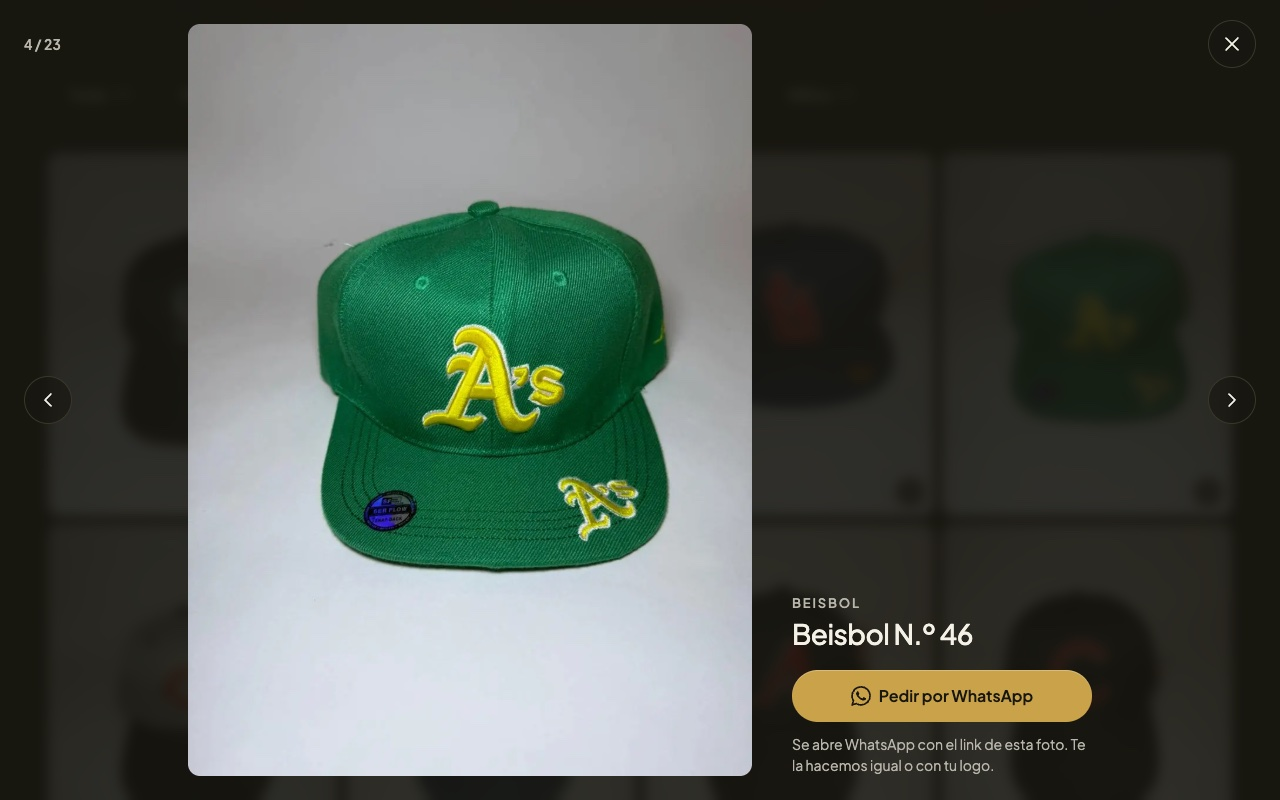
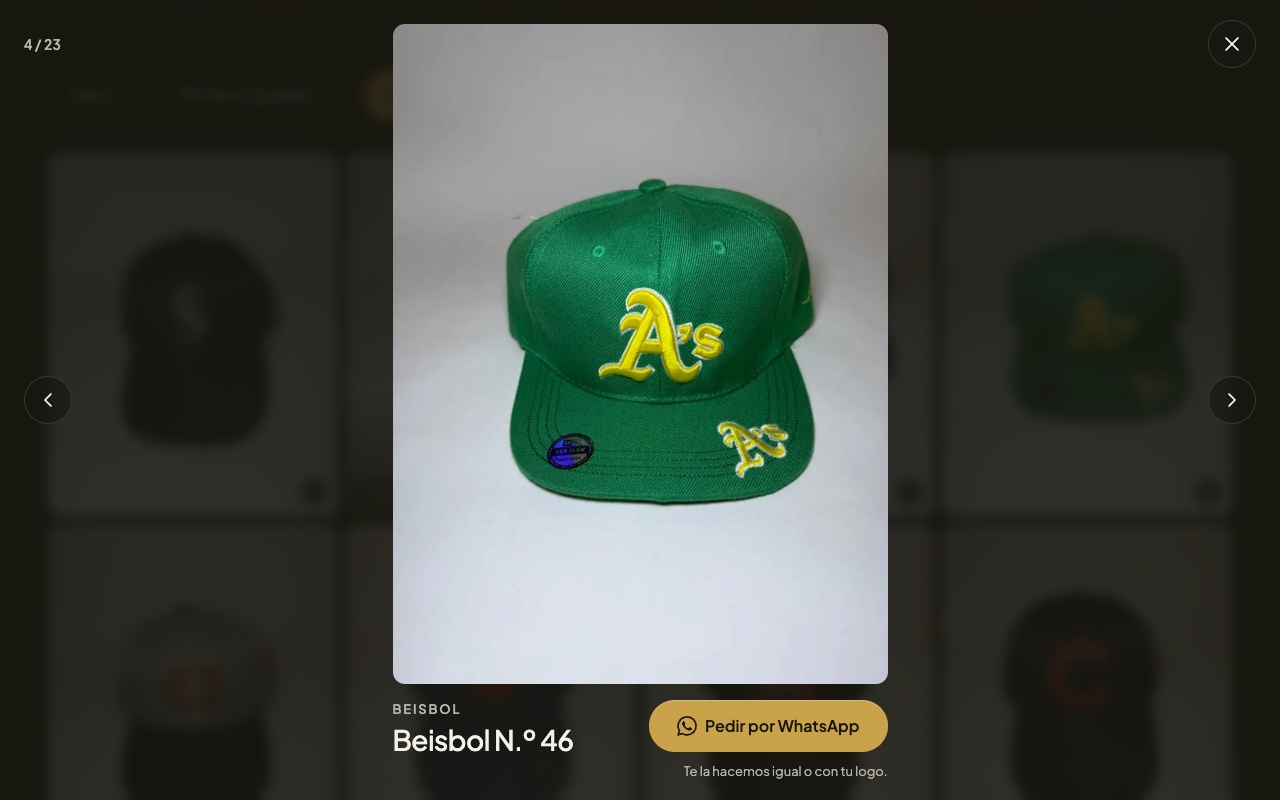
docs: PRI-286 modal at 1280 puts the info under the photo: centered photo and a one-row strip of the same width (category and name left, Pedir por WhatsApp with a one-line note right), equal air top and bottom in 800 px; long names truncate, wide photos stop before the arrows

diff --git a/tempo/designs/canvases/portada-final/Modal.tsx b/tempo/designs/canvases/portada-final/Modal.tsx
@@ -11,8 +11,10 @@ import { Catalogo, CATEGORIAS } from "./Pantallas";
  * PRI-286 · el visor pasa a ser un modal encima del muro (Said, 2026-11-02). Serflow no es una tienda: el catálogo es un
  * portafolio del taller y se pide por WhatsApp. Patrón: el modal de foto de Unsplash y el pin de Pinterest, sin nada de
  * tienda (ni precio, ni carrito, ni "Más de" al lado).
- * Escritorio: la foto entera (contain) a todo el alto que deja el margen; la franja al lado, pegada al borde de abajo de
- * la foto (así la foto usa todo el alto); flechas a los lados y la X arriba a la derecha.
+ * Escritorio: la foto entera (contain) centrada y, debajo, una franja de una sola fila del mismo ancho: categoría y nombre a
+ * la izquierda, Pedir por WhatsApp con su nota a la derecha. La foto se achica lo justo para que las dos quepan en el alto
+ * con el mismo aire arriba y abajo; flechas a los lados, contador arriba a la izquierda y la X arriba a la derecha.
+ * La nota en escritorio es corta para caber en una línea debajo del botón; en el celular va completa.
  * Celular: pantalla completa; arriba el contador y la X, la foto en el medio con las orillas de la anterior y la
  * siguiente (la pista de que se desliza) y la franja con el botón fija abajo.
  * Todo el texto es real: categoría, fotoTitulo, "Pedir por WhatsApp" con pedirUrl y su nota de master. description: hoy
@@ -47,7 +49,7 @@ function Franja({ desktop }: { desktop: boolean }) {
         <Button variant="whatsapp" href={pedirUrl(cat.label, n, foto.href)} external fullWidth={!desktop}>
           Pedir por WhatsApp
         </Button>
-        <p className="mx-nota">Se abre WhatsApp con el link de esta foto. Te la hacemos igual o con tu logo.</p>
+        <p className="mx-nota">{desktop ? "Te la hacemos igual o con tu logo." : "Se abre WhatsApp con el link de esta foto. Te la hacemos igual o con tu logo."}</p>
       </div>
     </div>
   );
@@ -80,9 +82,11 @@ export function Modal({ width }: { width: W }) {
                 <Chevron d="M15 18l-6-6 6-6" />
               </button>
               <div className="mx-centro">
-                <img src={foto.img.src} alt={foto.img.alt} className="mx-foto" />
-                <div className="mx-lado">
-                  <Franja desktop />
+                <div className="mx-pieza">
+                  <img src={foto.img.src} alt={foto.img.alt} className="mx-foto" />
+                  <div className="mx-lado">
+                    <Franja desktop />
+                  </div>
                 </div>
               </div>
               <button type="button" className="mx-flecha mx-sig" aria-label="Foto siguiente">

diff --git a/tempo/designs/canvases/portada-final/modal.css b/tempo/designs/canvases/portada-final/modal.css
@@ -49,11 +49,21 @@
 .mx-centro, .mx-pista, .mx-caja > .mx-franja { animation: sf-sube var(--motion-slow) var(--ease-premium) both; }
 @keyframes mx-funde { from { opacity: 0 } to { opacity: 1 } }
 
-/* ---------- Escritorio: foto a todo el alto (24 de margen), franja al lado pegada al borde de abajo ---------- */
+/* ---------- Escritorio: foto centrada y, debajo, la franja de una fila del mismo ancho ---------- */
 
-.mx-centro { position: absolute; inset: 24px 0; display: flex; justify-content: center; align-items: stretch; gap: 40px; }
-.mx-centro .mx-foto { width: auto; height: auto; max-height: calc(100cqh - 48px); max-width: calc(100cqw - 2 * 96px - 300px - 40px); }
-.mx-lado { width: 300px; display: flex; flex-direction: column; justify-content: flex-end; }
+/* La foto toma el alto que dejan el aire (igual arriba y abajo), la franja y el espacio entre las dos; su ancho sale de su proporción. */
+.mx-centro { --mx-aire: 24px; --mx-franja: 76px; --mx-entre: 16px; position: absolute; inset: 0; display: flex; align-items: center; justify-content: center; }
+.mx-pieza { display: flex; flex-direction: column; gap: var(--mx-entre); }
+/* Tope de ancho para una foto apaisada: no pasa por debajo de las flechas (24 + 48 + 24 por lado). */
+.mx-centro .mx-foto { width: auto; height: auto; max-height: calc(100cqh - 2 * var(--mx-aire) - var(--mx-franja) - var(--mx-entre)); max-width: calc(100cqw - 2 * 96px); }
+/* width 0 + min-width 100 %: la franja no ensancha la pieza, toma el ancho de la foto. */
+.mx-lado { width: 0; min-width: 100%; height: var(--mx-franja); }
+.mx-lado .mx-franja { flex-direction: row; align-items: flex-start; justify-content: space-between; gap: 24px; }
+.mx-lado .mx-nombre { min-width: 0; }
+/* Una fila siempre: un nombre largo se corta con … (el h2 completo sigue en el DOM). */
+.mx-lado .mx-titulo { white-space: nowrap; overflow: hidden; text-overflow: ellipsis; }
+.mx-lado .mx-pedir { flex: none; align-items: flex-end; gap: 10px; }
+.mx-lado .mx-nota { font-size: 13px; line-height: 18px; white-space: nowrap; max-width: none; }
 
 /* ---------- Celular: pantalla completa; barra, pista de fotos y franja fija abajo ---------- */
 
